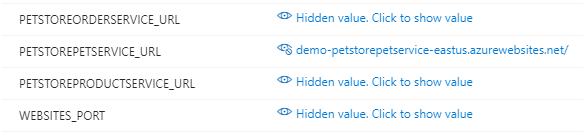
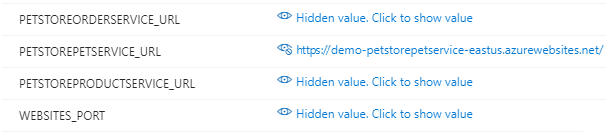
Update guide for Module 3

diff --git a/content/modules/module-03/guides/step-by-step-guide/step-by-step-guide.md b/content/modules/module-03/guides/step-by-step-guide/step-by-step-guide.md
@@ -248,6 +248,10 @@ To deploy your Webs in the Azure portal:
 
   <img src="images/st-03-04-02.png" width="700" style="border: 1px solid #ccc; margin: 20px 0; box-shadow: 0 2px 4px rgba(0, 0, 0, 0.1); display: inline-block;"/>
 
+- Make sure you have set up `WEBSITES_PORT=8080` for each service.
+ 
+- Ensure that all URLs start with `https://`.
+
 - If you've followed all the steps correctly, you should be able to navigate between pages without any errors.
 
   <img src="images/st-03-04-03.gif" width="700" style="border: 1px solid #ccc; margin: 20px 0; box-shadow: 0 2px 4px rgba(0, 0, 0, 0.1); display: inline-block;"/>
